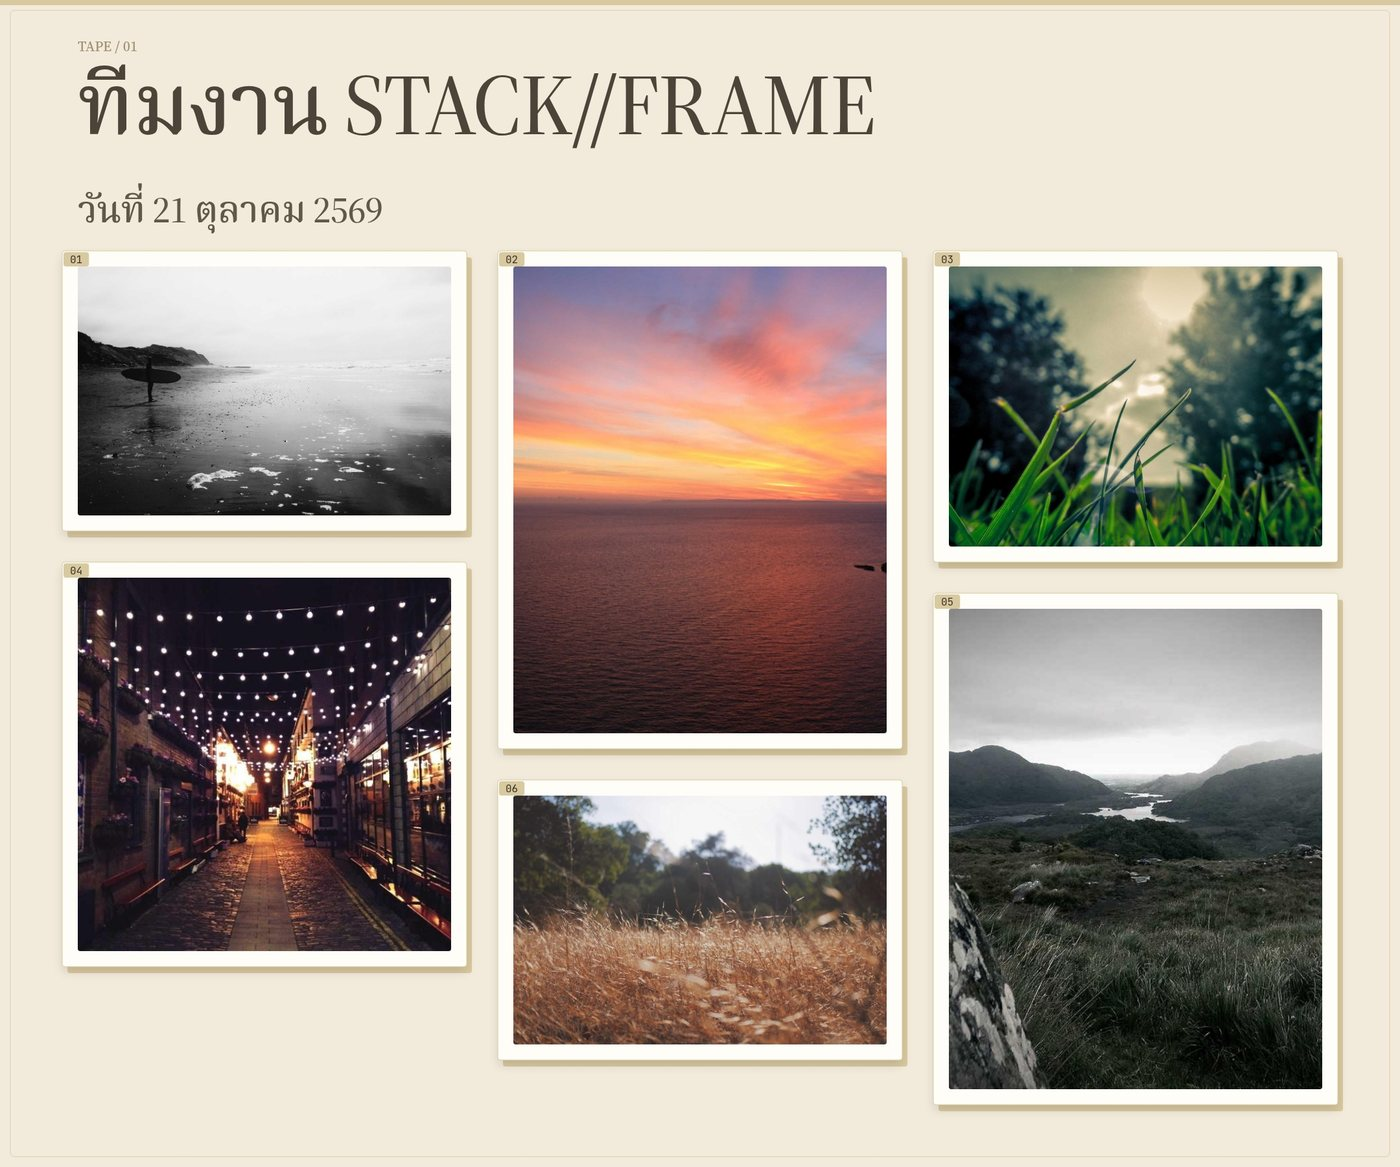
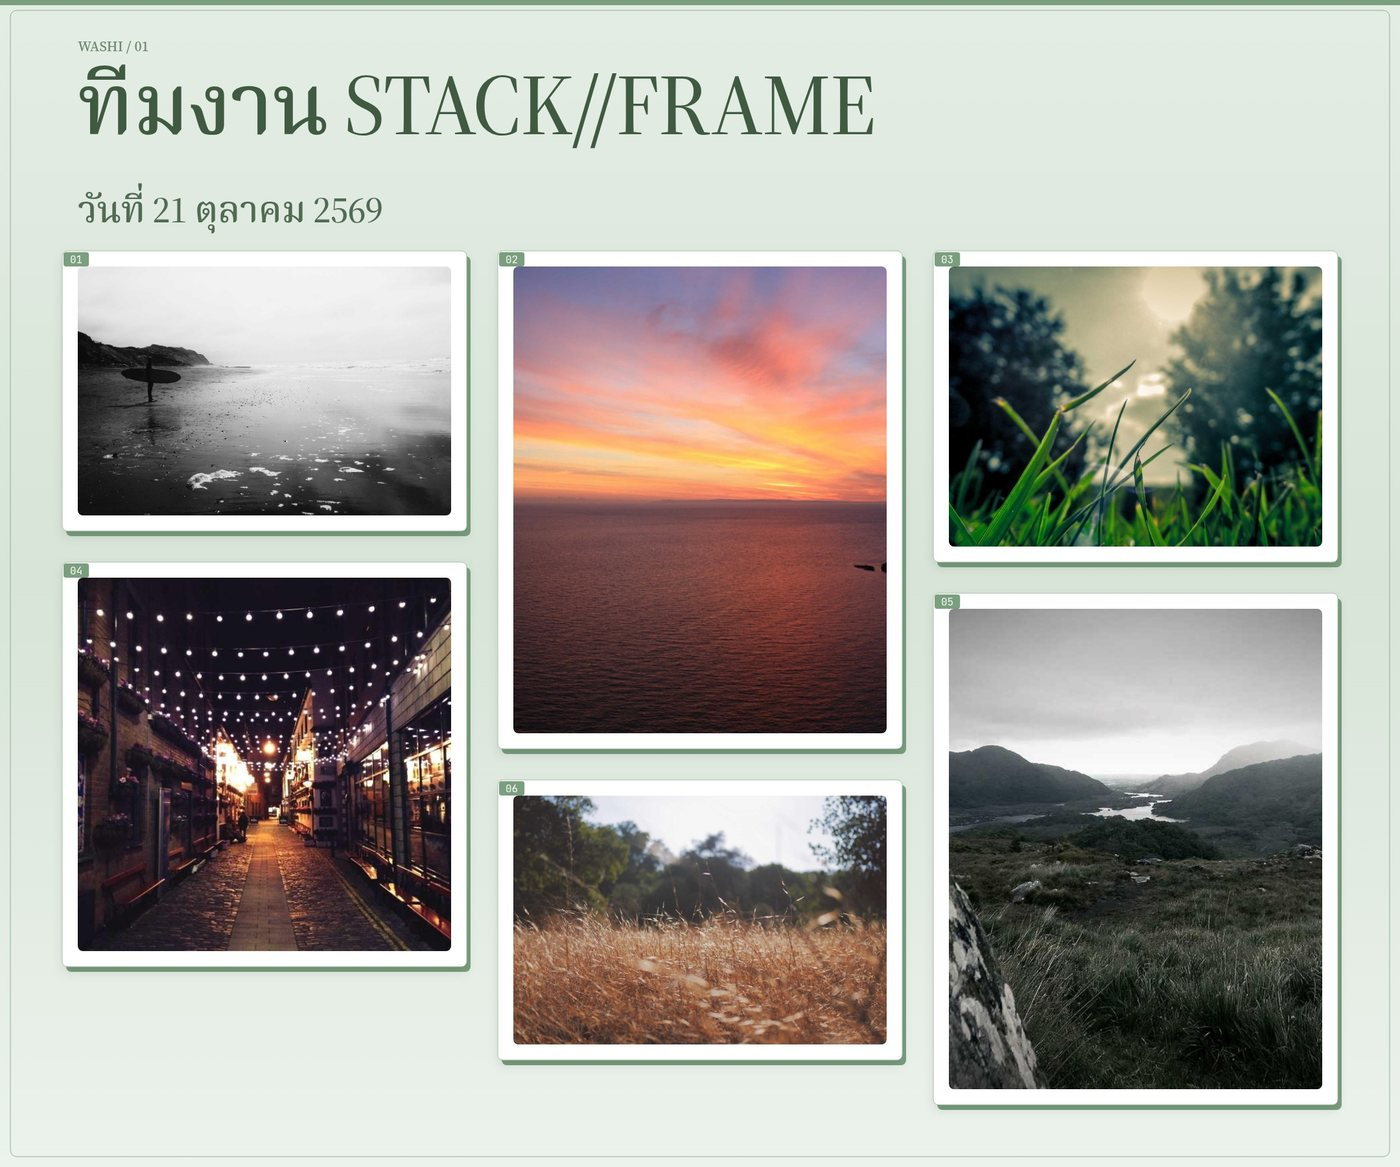
fix: replace mono/film/scrap; redesign washi tape (sage tone)

diff --git a/web/src/lib/collage/themes.ts b/web/src/lib/collage/themes.ts
@@ -7,7 +7,7 @@
    ============================================================================= */
 
 export type DayPreset = 'sun' | 'mon' | 'tue' | 'wed' | 'thu' | 'fri' | 'sat';
-export const THEME_IDS = ['7days', 'claude', 'lumen', 'post', 'studio', 'cinema', 'velvet', 'glitch', 'anime', 'tape', 'polar', 'press', 'mono', 'film', 'scrap'] as const;
+export const THEME_IDS = ['7days', 'claude', 'lumen', 'post', 'studio', 'cinema', 'velvet', 'glitch', 'anime', 'tape', 'polar', 'press'] as const;
 export type ThemeId = (typeof THEME_IDS)[number];
 
 export const DAY_PRESETS: Record<DayPreset, [string, string, string]> = {
@@ -473,145 +473,37 @@ export const THEMES = {
 	},
 	tape: {
 		id: 'tape',
-		name: 'CLEAR TAPE',
-		dot: '#d9c9a0',
+		name: 'WASHI TAPE',
+		dot: '#7a9e7e',
 		ui: {
-			heroMeta: 'TAPE // CLEAR',
-			genIdle: '> TAPE IT',
-			genReady: '> TAPED',
-			genHint: '// clear tape, torn edges',
-			outputTitle: 'CLEAR TAPE · READY',
-			outputTag: 'MEMO',
-			uploadText: 'วางรูปลงบนกระดาษโน้ต',
-			logIntro: '$ tape.clear --stick',
+			heroMeta: 'WASHI // TAPE',
+			genIdle: '> STICK IT',
+			genReady: '> WASHI READY',
+			genHint: '// clear tape, sage paper',
+			outputTitle: 'WASHI TAPE · READY',
+			outputTag: 'WASHI',
+			uploadText: 'เลือกรูปสำหรับเทปวาชิ',
+			logIntro: '$ washi.stick --ready',
 		},
 		canvas: {
-			bg: '#f2ebdc',
+			bg: { gradient: ['#e4ede4', '#d8e4d8', '#ecf2ec'], vertical: true },
 			cell: {
-				border: '#d9c9a0', width: 1, rounded: 4, bg: '#fffdf7', shadow: 0.12,
-				backplate: { dx: 8, dy: 10, rounded: 4, fill: '#d9c9a0' },
-				label: '{n}', labelColor: '#3a3226', labelBg: '#d9c9a0',
+				border: '#a8c0a8', width: 1, rounded: 8, bg: '#ffffff', shadow: 0.1,
+				backplate: { dx: 6, dy: 8, rounded: 8, fill: '#7a9e7e' },
+				label: '{n}', labelColor: '#f4faf4', labelBg: '#7a9e7e',
 				labelSize: 16, labelHeight: 22, labelPad: 10,
 				labelPosition: 'top-left', labelInset: 2, labelRounded: 4,
 			},
 			header: {
-				kicker: 'TAPE / 01', kickerFont: 'serif', kickerColor: '#8a7a55', kickerSize: 22,
-				text: '', color: '#3a3226', font: 'serif', size: 40, pad: 48, glow: false,
-				align: 'left', margin: 120, ink: '#3a3226',
-				stripe: '#d9c9a0', stripeHeight: 8, stripePos: 'top',
+				kicker: 'WASHI / 01', kickerFont: 'serif', kickerColor: '#4a6b4e', kickerSize: 22,
+				text: '', color: '#2d4a30', font: 'serif', size: 40, pad: 48, glow: false,
+				align: 'left', margin: 120, ink: '#2d4a30',
+				stripe: '#7a9e7e', stripeHeight: 8, stripePos: 'top',
 			},
 			overlay: 'none',
 			photoFx: 'none',
 			chrome: {
-				frame: { inset: 16, color: '#d9c9a0', width: 1, opacity: 0.9, rounded: 6 },
-			},
-		},
-	},
-	mono: {
-		id: 'mono',
-		name: 'MONO INK',
-		dot: '#1a1a1a',
-		ui: {
-			heroMeta: 'MONO // INK',
-			genIdle: '> INK IT',
-			genReady: '> PRINTED',
-			genHint: '// black ink on cream',
-			outputTitle: 'MONO INK · READY',
-			outputTag: 'INK',
-			uploadText: 'เลือกรูปสำหรับหมึกดำ',
-			logIntro: '$ mono.ink --print',
-		},
-		canvas: {
-			bg: '#f5f1e8',
-			cell: {
-				border: '#1a1a1a', width: 2, rounded: 0, bg: '#ffffff', shadow: 0,
-				cropMarks: { color: '#1a1a1a', size: 22, width: 2, inset: 8 },
-				label: 'NO.{n}', labelColor: '#ffffff', labelBg: '#1a1a1a',
-				labelSize: 16, labelHeight: 26, labelPad: 8,
-				labelPosition: 'top-left', labelInset: 8, labelRounded: 0,
-			},
-			header: {
-				kicker: 'MONO / 01', kickerFont: 'mono', kickerColor: '#5a5a5a', kickerSize: 20,
-				text: '', color: '#1a1a1a', font: 'mono', size: 40, pad: 60, glow: false,
-				align: 'left', margin: 120, ink: '#1a1a1a',
-				stripe: '#1a1a1a', stripeHeight: 2, stripePos: 'top',
-			},
-			overlay: 'none',
-			photoFx: 'grayscale',
-			chrome: {
-				frame: { inset: 20, color: '#1a1a1a', width: 2, opacity: 0.9, rounded: 0 },
-			},
-		},
-	},
-	film: {
-		id: 'film',
-		name: 'FILM STRIP',
-		dot: '#3a2a1a',
-		ui: {
-			heroMeta: 'FILM STRIP // 35MM',
-			genIdle: '> EXPOSE',
-			genReady: '> DEVELOPED',
-			genHint: '// 35mm film, sprocket holes',
-			outputTitle: 'FILM STRIP · READY',
-			outputTag: '35MM',
-			uploadText: 'เลือกรูปสำหรับฟิล์ม 35 มม.',
-			logIntro: '$ film.expose --ready',
-		},
-		canvas: {
-			bg: '#1a1410',
-			cell: {
-				border: '#3a2a1a', width: 2, rounded: 0, bg: '#2a1f18', shadow: 0.2,
-				label: 'FR.{n}', labelColor: '#f4e4c1', labelBg: '#3a2a1a',
-				labelSize: 16, labelHeight: 26, labelPad: 8,
-				labelPosition: 'bottom-right', labelInset: 10, labelRounded: 0,
-			},
-			header: {
-				kicker: '35MM / 01', kickerFont: 'mono', kickerColor: '#d4a373', kickerSize: 20,
-				text: '', color: '#d4a373', font: 'mono', size: 40, pad: 60, glow: false,
-				align: 'left', margin: 120, ink: '#f4e4c1',
-				stripe: '#d4a373', stripeHeight: 4, stripePos: 'top',
-			},
-			overlay: 'none',
-			photoFx: 'saturate(0.9) brightness(0.95) contrast(1.05)',
-			chrome: {
-				frame: { inset: 16, color: '#d4a373', width: 2, opacity: 0.6, rounded: 0 },
-				filmPerforations: { width: 16, height: 26, gap: 70, pad: 12, color: '#f4e4c1', opacity: 0.5, rounded: 2, start: 40 },
-			},
-		},
-	},
-	scrap: {
-		id: 'scrap',
-		name: 'SCRAPBOOK',
-		dot: '#c9a227',
-		ui: {
-			heroMeta: 'SCRAPBOOK // MIXED',
-			genIdle: '> SCRAP IT',
-			genReady: '> SCRAPBOOK READY',
-			genHint: '// torn paper, mixed fonts',
-			outputTitle: 'SCRAPBOOK · READY',
-			outputTag: 'SCRAP',
-			uploadText: 'เลือกรูปสำหรับสมุดตัดปะ',
-			logIntro: '$ scrapbook.mix --ready',
-		},
-		canvas: {
-			bg: { gradient: ['#f0e6d2', '#e8d9b8', '#f5ecd6'], vertical: true },
-			cell: {
-				border: '#b8956a', width: 2, rounded: 8, bg: '#fffaf0', shadow: 0.12,
-				backplate: { dx: 6, dy: 8, rounded: 8, fill: '#c9a227' },
-				label: '{n}', labelColor: '#fffaf0', labelBg: '#c9a227',
-				labelSize: 18, labelHeight: 26, labelPad: 10,
-				labelPosition: 'bottom-right', labelInset: 10, labelRounded: 12,
-			},
-			header: {
-				kicker: 'SCRAP / 01', kickerFont: 'serif', kickerColor: '#8b6f47', kickerSize: 22,
-				text: '', color: '#5a3e2b', font: 'serif', size: 44, pad: 60, glow: false,
-				align: 'center', ink: '#5a3e2b',
-				stripe: '#c9a227', stripeHeight: 8, stripePos: 'top',
-			},
-			overlay: 'none',
-			photoFx: 'saturate(0.95) brightness(1.03)',
-			chrome: {
-				frame: { inset: 18, color: '#b8956a', width: 2, opacity: 0.6, rounded: 12 },
+				frame: { inset: 16, color: '#7a9e7e', width: 1, opacity: 0.8, rounded: 10 },
 			},
 		},
 	},
@@ -697,10 +589,7 @@ export const THEME_LABELS: Record<ThemeId, string> = {
 	velvet: 'VELVET',
 	glitch: 'GLITCH',
 	anime: 'ANIME',
-	mono: 'MONO INK',
-	film: 'FILM STRIP',
-	scrap: 'SCRAPBOOK',
-	tape: 'CLEAR TAPE',
+	tape: 'WASHI TAPE',
 	polar: 'POLAROID',
 	press: 'PRESS',
 };
@@ -716,10 +605,7 @@ export const THEME_SUBS: Record<ThemeId, string> = {
 	velvet: 'album',
 	glitch: 'meme',
 	anime: 'kawaii',
-	mono: 'ink',
-	film: 'strip',
-	scrap: 'collage',
-	tape: 'clear',
+	tape: 'washi',
 	polar: 'snapshot',
 	press: 'print',
 };
@@ -735,9 +621,6 @@ export const THEME_PREVIEW: Record<ThemeId, string> = {
 	velvet: 'pv-velvet.jpg',
 	glitch: 'pv-glitch.jpg',
 	anime: 'pv-anime.jpg',
-	mono: 'pv-mono.jpg',
-	film: 'pv-film.jpg',
-	scrap: 'pv-scrap.jpg',
 	tape: 'pv-tape.jpg',
 	polar: 'pv-polar.jpg',
 	press: 'pv-press.jpg',
